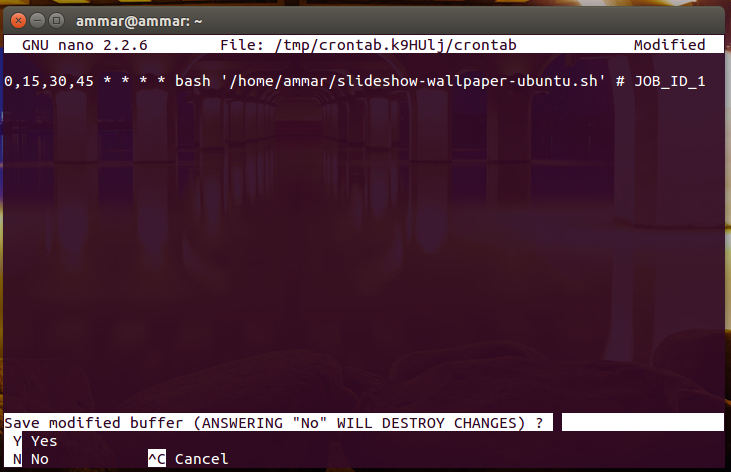
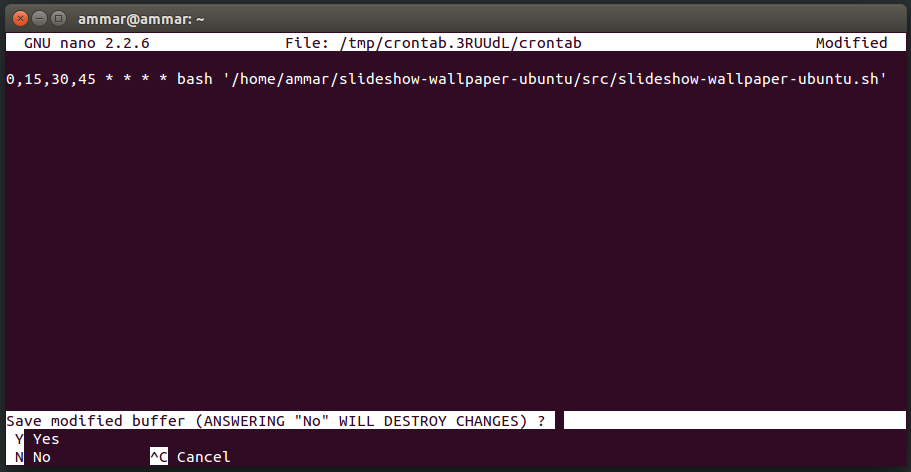
Updated README.md

Changed region(s): [[0.0, 0.0, 1.0, 1.0]]

diff --git a/README.md b/README.md
@@ -32,12 +32,12 @@ $ crontab -e
 You will see a text editor inside the terminal. Scroll to the end and set the interval of time at which you want the script to be executed at. I have set it mine to run at every 0, 15, 30, 45 minutes of every hour, every day. To do that, you have to type:
 
 ```
-0, 15, 30, 45 * * * * bash '/home/[computer name]/slideshow-wallpaper-ubuntu.sh' # JOB_ID_1
+0,15,30,45 * * * * bash '/home/[computer name]/slideshow-wallpaper-ubuntu/src/slideshow-wallpaper-ubuntu.sh'
 ```
 
 ![](https://raw.githubusercontent.com/ammarx/slideshow-wallpaper-ubuntu/master/cron1.png)
 
-Where '/home/**[computer name]**/slideshow-wallpaper-ubuntu.sh' is the path to the script.
+Where '/home/**[computer name]**/slideshow-wallpaper-ubuntu/src/slideshow-wallpaper-ubuntu.sh' is the path to the script.
 
 After doing this, you have to save the file. To do that press 'ctrl+x' and then press 'Y' and enter.
 
